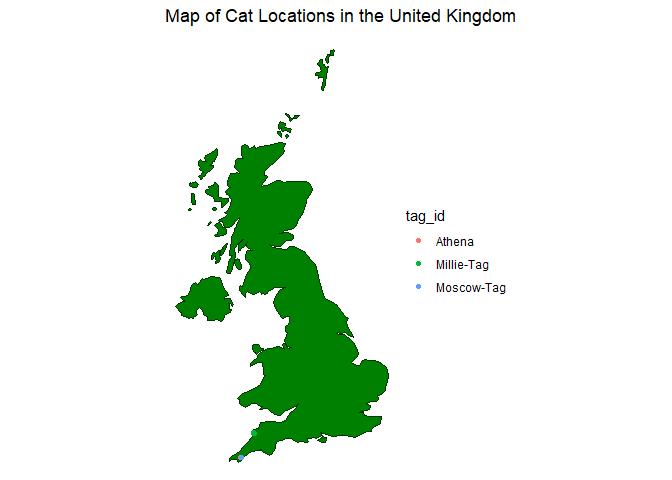
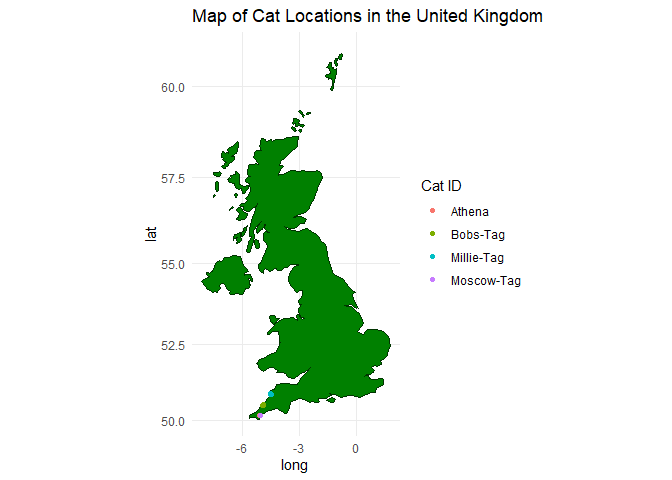
Updated UK_CAT Plot

diff --git a/Week_07/Script/Meteorite_Lab_Assignment.html b/Week_07/Script/Meteorite_Lab_Assignment.html
@@ -14,7 +14,7 @@
 
 <meta name="date" content="2023-03-07" />
 
-<title>Meteorite_Spatial_Data_Analysis</title>
+<title>Cat_Spatial_Data_Analysis</title>
 
 <script>// Pandoc 2.9 adds attributes on both header and div. We remove the former (to
 // be compatible with the behavior of Pandoc < 2.8).
@@ -139,7 +139,7 @@ pointer-events: auto;
 
 
 <section class="page-header">
-<h1 class="title toc-ignore project-name">Meteorite_Spatial_Data_Analysis</h1>
+<h1 class="title toc-ignore project-name">Cat_Spatial_Data_Analysis</h1>
 <h4 class="author project-author">Kristen Howard</h4>
 <h4 class="date project-date">2023-03-07</h4>
 </section>
@@ -203,7 +203,7 @@ Kingdom</h1></li>
 <h1>Select Specefic Cat IDs</h1>
 <p>We will chose Athena, Moscow, and Lola</p>
 <div class="sourceCode" id="cb5"><pre class="sourceCode r"><code class="sourceCode r"><span id="cb5-1"><a href="#cb5-1" aria-hidden="true" tabindex="-1"></a>Tag_cat <span class="ot">&lt;-</span> cats_uk<span class="sc">%&gt;%</span></span>
-<span id="cb5-2"><a href="#cb5-2" aria-hidden="true" tabindex="-1"></a>              <span class="fu">filter</span>(tag_id <span class="sc">%in%</span> <span class="fu">c</span>(<span class="st">&quot;Athena&quot;</span>,<span class="st">&quot;Moscow-Tag&quot;</span>,<span class="st">&quot;Millie-Tag&quot;</span>))</span></code></pre></div>
+<span id="cb5-2"><a href="#cb5-2" aria-hidden="true" tabindex="-1"></a>              <span class="fu">filter</span>(tag_id <span class="sc">%in%</span> <span class="fu">c</span>(<span class="st">&quot;Athena&quot;</span>,<span class="st">&quot;Moscow-Tag&quot;</span>,<span class="st">&quot;Millie-Tag&quot;</span>,<span class="st">&quot;Bobs-Tag&quot;</span>))</span></code></pre></div>
 </div>
 <div id="now-lets-add-data-points-from-uk-data." class="section level1">
 <h1>Now, let’s add data points from UK data.</h1>
@@ -215,16 +215,16 @@ Kingdom</h1></li>
 <span id="cb6-6"><a href="#cb6-6" aria-hidden="true" tabindex="-1"></a>                   <span class="at">fill=</span>region),</span>
 <span id="cb6-7"><a href="#cb6-7" aria-hidden="true" tabindex="-1"></a>               <span class="at">color=</span><span class="st">&quot;#003300&quot;</span>, </span>
 <span id="cb6-8"><a href="#cb6-8" aria-hidden="true" tabindex="-1"></a>               <span class="at">fill=</span><span class="st">&quot;#008000&quot;</span>) <span class="sc">+</span></span>
-<span id="cb6-9"><a href="#cb6-9" aria-hidden="true" tabindex="-1"></a>  <span class="fu">theme_void</span>() <span class="sc">+</span> <span class="co">#This gets rid of grid and x and y axis.</span></span>
+<span id="cb6-9"><a href="#cb6-9" aria-hidden="true" tabindex="-1"></a>  <span class="fu">theme_minimal</span>() <span class="sc">+</span> <span class="co">#This gets rid of grid and x and y axis.</span></span>
 <span id="cb6-10"><a href="#cb6-10" aria-hidden="true" tabindex="-1"></a>  <span class="fu">geom_point</span>(<span class="at">data=</span>Tag_cat, <span class="co">#This is how you add the points from another dataset and add it to a map</span></span>
 <span id="cb6-11"><a href="#cb6-11" aria-hidden="true" tabindex="-1"></a>             <span class="fu">aes</span>(<span class="at">x =</span> location_long, </span>
 <span id="cb6-12"><a href="#cb6-12" aria-hidden="true" tabindex="-1"></a>                 <span class="at">y =</span> location_lat,</span>
 <span id="cb6-13"><a href="#cb6-13" aria-hidden="true" tabindex="-1"></a>                 <span class="at">color=</span> tag_id,</span>
 <span id="cb6-14"><a href="#cb6-14" aria-hidden="true" tabindex="-1"></a>                 <span class="at">legend=</span> tag_id)) <span class="sc">+</span></span>
-<span id="cb6-15"><a href="#cb6-15" aria-hidden="true" tabindex="-1"></a>  <span class="fu">labs</span>(<span class="at">title =</span> <span class="st">&quot;Map of Cat Locations in the United Kingdom&quot;</span>) <span class="sc">+</span></span>
+<span id="cb6-15"><a href="#cb6-15" aria-hidden="true" tabindex="-1"></a>  <span class="fu">labs</span>(<span class="at">title =</span> <span class="st">&quot;Map of Cat Locations in the United Kingdom&quot;</span>,<span class="at">color =</span> <span class="st">&quot;Cat ID&quot;</span>) <span class="sc">+</span></span>
 <span id="cb6-16"><a href="#cb6-16" aria-hidden="true" tabindex="-1"></a>  <span class="fu">coord_map</span>()<span class="sc">+</span></span>
 <span id="cb6-17"><a href="#cb6-17" aria-hidden="true" tabindex="-1"></a>  <span class="fu">guides</span>(<span class="at">fill=</span><span class="cn">FALSE</span>)</span></code></pre></div>
[2 lines of base64/hex data omitted]
 </div>
 </section>
 
